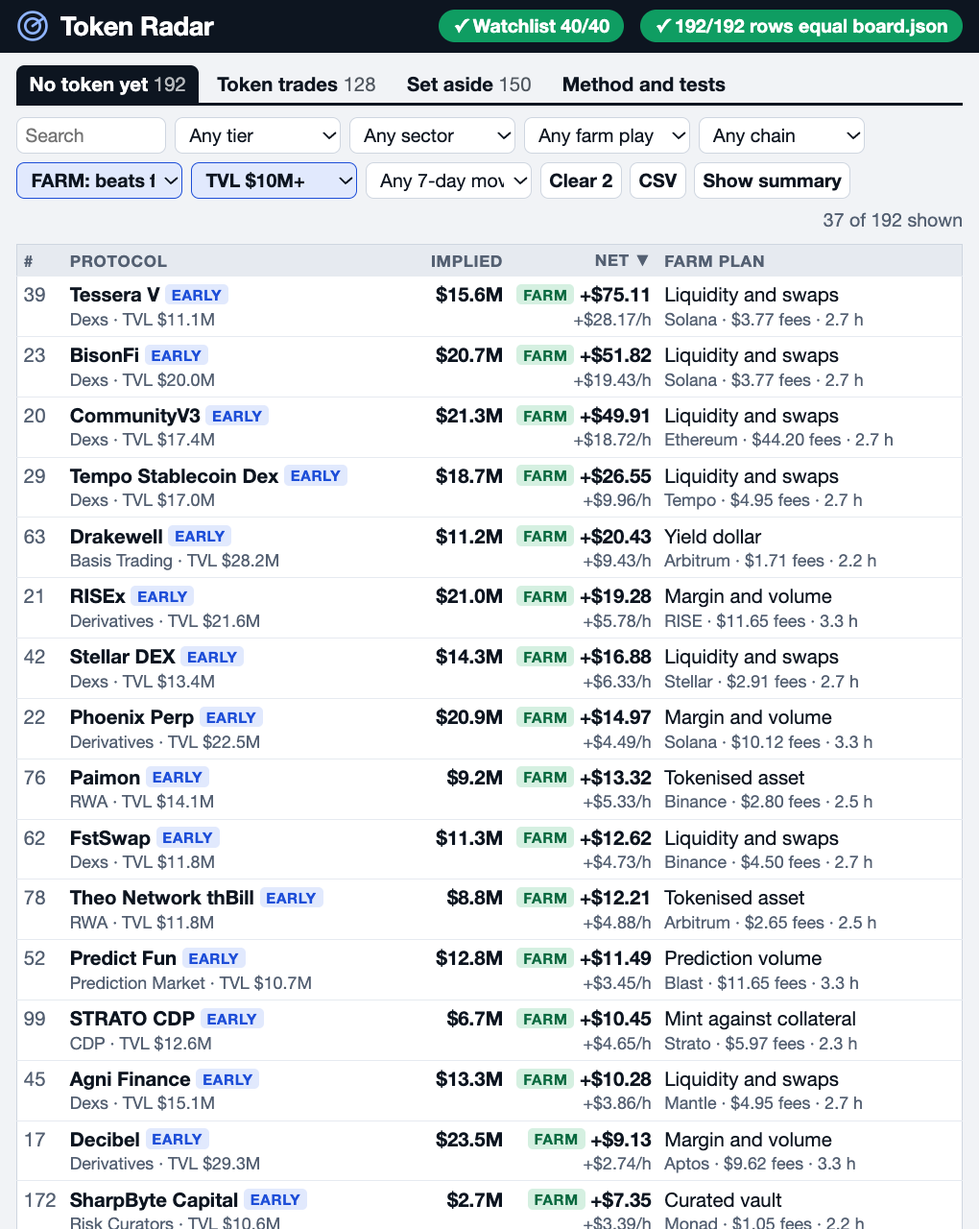
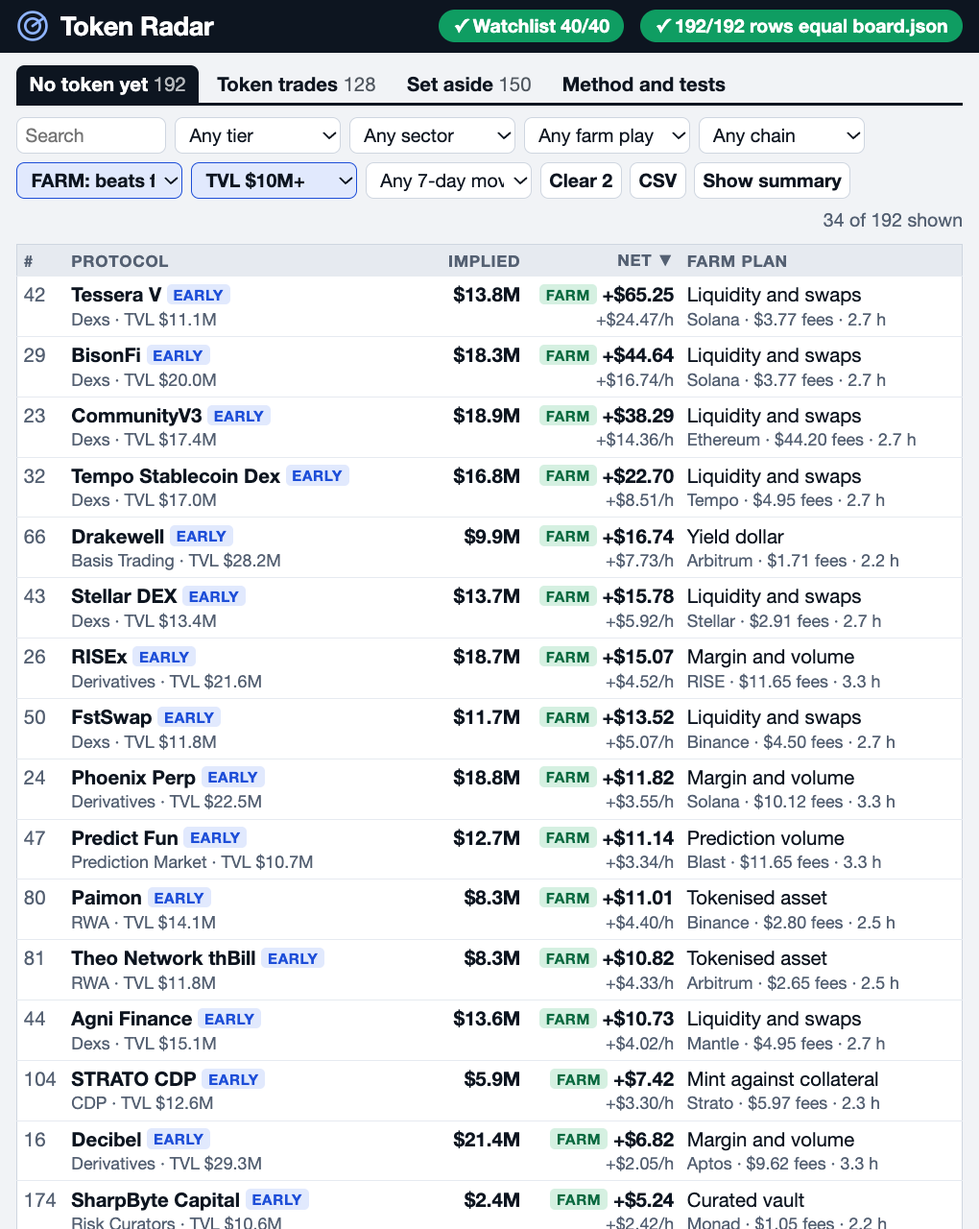
Age sets the range, not much of the price; plan steps carry their own figures
- age: a quarter of the fitted slope, held within x0.90 to x1.15, so the blind test is no
  worse with it (x2.92, 52% within 3x); tokens under 18 months on record miss x6.83 against
  x2.81 for older ones, so each row's range now depends on its time on record
- farm steps: the gas to fund is the plan's own gas doubled, and the claim step states the
  ticket's slice at the implied value
- the brief gives rank 1 in full: its figures, its value as a product of factors, its range
  and its eight steps as board.json carries them
- board shows two chains; stricter wording on which names the code holds; ten plays, not nine
- screenshots retaken

Changed region(s): [[0.4255, 0.1875, 0.9118, 1.0], [0.0304, 0.1875, 0.3343, 1.0]]

diff --git a/dashboard/2-app.js b/dashboard/2-app.js
@@ -111,7 +111,8 @@
       '<div class=\'how\'><h2>How a launch is priced ' + fn('impliedValue') + '</h2><code>10^' + fit.a.toFixed(2) + ' × TVL^' + fit.b.toFixed(3) + ' × sector × momentum × age × kinship</code>' +
       '<table><tr><th>Blind test: each traded token left out, then priced</th><th>miss</th><th>within 3×</th></tr>' +
       tests.ladder.map(function (l, i) { return '<tr' + (i === 3 ? ' class=\'on\'' : '') + '><td>' + l.name + '</td><td>' + times(l.miss) + '</td><td>' + Math.round(l.within3 * 100) + '%</td></tr>'; }).join('') +
-      '<tr><td>The ' + tests.cohort.newer + ' newest tokens, fit on the ' + tests.cohort.older + ' older</td><td>' + times(tests.cohort.model.miss) + '</td><td>flat ' + times(tests.cohort.flat.miss) + '</td></tr></table></div>' +
+      '<tr><td>The ' + tests.cohort.newer + ' newest tokens, fit on the ' + tests.cohort.older + ' older</td><td>' + times(tests.cohort.model.miss) + '</td><td>flat ' + times(tests.cohort.flat.miss) + '</td></tr>' +
+      '<tr><td>Under ' + Math.round(R.CONFIG.youngDays / 30) + ' months on record: a wider range</td><td>' + times(tests.spread.young.miss) + '</td><td>older ' + times(tests.spread.seasoned.miss) + '</td></tr></table></div>' +
       '<div class=\'chart\'>' + curveChart(250, 150) + '</div></section>';
   }
   function renderTabs() {
@@ -143,7 +144,7 @@
     }).join('') + '</tr></thead><tbody>' + list.map(function (r) {
       var p = r.now;
       return '<tr data-slug=\'' + r.slug + '\'><td class=\'n\'>' + r.rank + '</td>' +
-        '<td><b>' + esc(r.name) + '</b> ' + tag('tier', r.tier) + '<small>' + esc(r.category) + wide(' · ' + esc(r.chains[0] || '') + (r.chains.length > 1 ? ' +' + (r.chains.length - 1) : '')) + narrow(' · TVL ' + usd(r.tvl)) + '</small></td>' +
+        '<td><b>' + esc(r.name) + '</b> ' + tag('tier', r.tier) + '<small>' + esc(r.category) + wide(' · ' + esc(r.chains.slice(0, 2).join(', ')) + (r.chains.length > 2 ? ' +' + (r.chains.length - 2) : '')) + narrow(' · TVL ' + usd(r.tvl)) + '</small></td>' +
         '<td class=\'r wide\'>' + usd(r.tvl) + '</td><td class=\'r wide\'>' + (r.change7d == null ? 'n/a' : pct(r.change7d)) + '<small class=\'' + (r.excess >= 0 ? 'up' : 'down') + '\'>' + pct(r.excess * 100) + ' vs market</small></td>' +
         '<td class=\'r wide\'>' + span(r.age) + '</td>' +
         '<td class=\'r\'><b>' + usd(r.value) + '</b><span class=\'band wide\'><i style=\'left:' + bar(r.low) + '%;width:' + (bar(r.high) - bar(r.low)) + '%\'></i><u style=\'left:' + bar(r.value) + '%\'></u></span></td>' +
@@ -158,22 +159,23 @@
   function renderDetailView(r) {
     var p = r.now;
     return '<article class=\'detail\'><p class=\'crumbs\'><button data-set=\'p=\'>← Board</button>' +
-      '<span>Rank ' + r.rank + ' of ' + rows.length + ' · ' + esc(r.category) + ' · ' + esc(r.chains.slice(0, 3).join(', ')) + (r.chains.length > 3 ? ' +' + (r.chains.length - 3) : '') + ' · ← → for the next rank</span></p>' +
+      '<span>Rank ' + r.rank + ' of ' + rows.length + ' · ' + esc(r.category) + ' · ' + esc(r.chains.slice(0, 3).join(', ')) + (r.chains.length > 3 ? ' +' + (r.chains.length - 3) : '') + '</span></p>' +
       '<header><h1>' + esc(r.name) + ' ' + tag('tier', r.tier) + '<small>TVL ' + usd(r.tvl) + ' · ' + (r.age == null ? 'no listing date' : r.age + ' days on record') + ' · DefiLlama records no token as of ' + radar.asOf + '</small></h1>' +
-      '<div class=\'worth\'><b>' + usd(r.value) + '</b><small>implied value · likely ' + usd(r.low) + ' to ' + usd(r.high) + '</small></div></header>' +
+      '<div class=\'worth\'><b>' + usd(r.value) + '</b><small>implied value · ' + usd(r.low) + ' to ' + usd(r.high) + ', ' + times(r.spread) + ' either way</small></div></header>' +
       '<div class=\'cols\'><section>' + renderValueBuild(r) + wide(curveChart(430, 190, r)) + '</section>' +
-      '<section>' + renderFarmPlanTable(r, p) + renderNetGrid(r) + '</section></div></article>';
+      '<section>' + renderFarmPlanTable(r, p) + '</section></div></article>';
   }
   /** impliedValue's factors as a running product, each with the snapshot figure behind it. */
   function renderValueBuild(r) {
-    var comps = radar.comps.filter(function (c) { return c.sector === r.sector; }).length, running = r.curve;
+    var comps = radar.comps.filter(function (c) { return c.sector === r.sector; }).length, running = r.curve, months = Math.round(R.CONFIG.youngDays / 30);
     var why = [r.sector + ': ' + comps + ' traded comps, effect shrunk toward the curve',
       (r.change7d == null ? 'no 7-day figure' : '7d ' + pct(r.change7d)) + ' against the market\'s ' + pct(radar.marketWeek),
-      r.age == null ? 'no listing date on record' : r.age + ' days with no token; younger tokens trade richer',
+      r.age == null ? 'no listing date on record' : r.age + ' days with no token: a slight tilt, newer tokens trade richer',
       r.tier === 'shared' ? 'filed under a parent: one launch shared with siblings' : r.kin ? 'its name stem already carries ' + r.kin + ': kept only because the watchlist names it' : 'its own launch'];
     return '<h2>How ' + usd(r.value) + ' is built ' + fn('impliedValue') + '</h2><table class=\'build\'><tr><td>Size curve</td><td></td><td>' + usd(r.curve) + '</td><td>10^' + fit.a.toFixed(2) + ' × ' + usd(r.tvl) + '^' + fit.b.toFixed(3) + ', fitted on ' + radar.comps.length + ' traded tokens</td></tr>' +
       r.factors.map(function (f, i) { running *= f[1]; return '<tr><td>' + f[0] + '</td><td>' + times(f[1]) + '</td><td>' + usd(running) + '</td><td>' + esc(why[i]) + '</td></tr>'; }).join('') +
-      '<tr class=\'on\'><td>Implied value</td><td></td><td>' + usd(r.value) + '</td><td>recomputed here; board.json has $' + r.value.toLocaleString('en-US') + ' at rank ' + r.rank + '</td></tr></table>';
+      '<tr class=\'on\'><td>Implied value</td><td></td><td>' + usd(r.value) + '</td><td>recomputed here; board.json has $' + r.value.toLocaleString('en-US') + ' at rank ' + r.rank + '</td></tr>' +
+      '<tr><td>Range</td><td>' + times(r.spread) + '</td><td>' + usd(r.low) + ' – ' + usd(r.high) + '</td><td>half the blind misses of tokens ' + (r.young ? 'under ' : 'over ') + months + ' months on record fall inside: the younger, the less sure</td></tr></table>';
   }
   /** farmPlan's eight steps with each one's dollar cost and minutes, then slice - fees - T-bill = net. */
   function renderFarmPlanTable(r, p) {
@@ -184,13 +186,6 @@
       '<p class=\'sum\'>Slice <b>' + usd(p.slice) + '</b> − fees <b>' + usd(p.fees) + '</b> − T-bill forgone <b>' + usd(p.forgone) + '</b> = net <b class=\'' + (p.net >= 0 ? 'up' : 'down') + '\'>' + signed(p.net) + '</b>, ' + signed(p.perHour) + ' an hour. ' +
       (p.breakEven ? 'Pays from a ' + usd(p.breakEven) + ' ticket.' : 'No ticket size pays at this value.') + '</p>' +
       '<p class=\'note\'>Slice: ' + Math.round(p.share * 100) + '% of ' + usd(r.value) + ' shared by dollar-days. Your ' + p.hold + ' days stand behind ' + Math.round(p.ahead) + ' day-equivalents already earned (half its days with no token, as if TVL grew in a straight line). A launch that only counts balances on the day would pay ' + usd(p.snapshotSlice) + '.</p>';
-  }
-  /** Net at three tickets and three airdrop shares: how far the verdict depends on the assumptions. */
-  function renderNetGrid(r) {
-    var shares = [5, 10, 20];
-    return '<table class=\'mini grid\'><tr><th>Net of all costs at</th>' + shares.map(function (s) { return '<th>' + s + '% airdrop</th>'; }).join('') + '</tr>' + [1000, 5000, 25000].map(function (cap) {
-      return '<tr><td>' + usd(cap) + ' ticket</td>' + shares.map(function (s) { var p = R.farmPlan(r, { capital: cap, share: s / 100 }); return '<td class=\'' + (p.net >= 0 ? 'up' : 'down') + '\'>' + signed(p.net) + '</td>'; }).join('') + '</tr>';
-    }).join('') + '</table>';
   }
 
   // ---------------------------------------------------------------- the other tabs
@@ -206,22 +201,22 @@
   }
   /** Protocols with no token on record that the board leaves out, each with the rule that set it aside. */
   function renderSetAside() {
-    return '<p class=\'lead\'>' + radar.counts.noToken + ' protocols record no token. ' + rows.length + ' are ranked; these ' + radar.aside.length + ' are set aside by rule, never by name: the house\'s watchlist rule (bridge, staking, exchange, versioned or wrapped listings) or a name stem that already carries a token.</p>' +
+    return '<p class=\'lead\'>' + radar.counts.noToken + ' protocols record no token. ' + rows.length + ' are ranked; these ' + radar.aside.length + ' are set aside by rule: the house\'s watchlist rule (bridge, staking, exchange, versioned or wrapped listings) or a name stem that already carries a token.</p>' +
       '<table class=\'board\'><thead><tr><th>Protocol</th><th>Category</th><th class=\'r\'>TVL</th><th>Set aside because</th></tr></thead><tbody>' +
       radar.aside.map(function (a) { return '<tr><td><b>' + esc(a.name) + '</b></td><td>' + esc(a.category || '') + '</td><td class=\'r\'>' + usd(a.tvl) + '</td><td>' + esc(a.reason) + '</td></tr>'; }).join('') + '</tbody></table>';
   }
   /** The method in words, the evidence for each input, and every traded token's blind price against its cap. */
   function renderMethodAndTests() {
     var C = R.CONFIG, sectors = Object.keys(fit.sector).map(function (s) { return s + ' ' + times(Math.pow(10, fit.sector[s])); }).join(', ');
-    return '<div class=\'method\'><section><h2>What is priced</h2><p>A protocol is on the board when DefiLlama records no market cap, ticker or CoinGecko id for it and no rule sets it aside. Its implied value is what its token would be worth if priced like the tokens that already trade.</p>' +
+    return '<div class=\'method\'><section><h2>What is priced</h2><p>A protocol is on the board when DefiLlama records no market cap, ticker or CoinGecko id for it and no rule sets it aside. Its value is what its token would be worth if priced like those that trade.</p>' +
       '<h2>The evidence for each input</h2><table class=\'mini text\'><tr><th>Input</th><th>What the ' + radar.comps.length + ' comparables say</th><th>How it is used</th></tr>' +
       '<tr><td>TVL</td><td>cap grows as TVL^' + fit.b.toFixed(3) + ': a dollar of TVL is worth less in a big protocol</td><td>the size curve, a Theil-Sen line no outlier can tilt</td></tr>' +
       '<tr><td>Sector</td><td>' + sectors + '</td><td>each effect shrunk by ' + C.pseudoComps + ' pseudo-comps</td></tr>' +
       '<tr><td>7-day growth</td><td>the median protocol moved ' + pct(radar.marketWeek) + ' that week</td><td>TVL carried forward by its growth over the market, capped at ±' + C.growthCap * 100 + '%</td></tr>' +
-      '<tr><td>Time with no token</td><td>younger tokens trade richer: ' + fit.ageSlope.toFixed(2) + ' per tenfold of days, after halving</td><td>held within ' + times(C.ageClamp[0]) + ' to ' + times(C.ageClamp[1]) + '; and in the farm slice</td></tr>' +
+      '<tr><td>Time with no token</td><td>newer tokens price richer in every cohort split; under ' + Math.round(C.youngDays / 30) + ' months on record the blind test misses ' + times(tests.spread.young.miss) + ', older ' + times(tests.spread.seasoned.miss) + '</td><td>a slight tilt on price (' + times(C.ageClamp[0]) + ' to ' + times(C.ageClamp[1]) + '), the width of the range, and the farm slice</td></tr>' +
       '<tr><td>Honest limit</td><td>the blind test is no better with growth and age (' + times(tests.ladder[2].miss) + ' to ' + times(tests.ladder[3].miss) + ')</td><td>both are kept small; size and sector carry the value</td></tr></table>' +
       '<h2>Farm maths</h2><p>slice = value × airdrop share × ticket / TVL × hold / (ahead + hold). ahead is half the days it has run with no token, at most ' + C.pointsWindow + ': TVL is taken to have grown in a straight line. net = slice − fees − the ' + C.tbill * 100 + '% T-bill yield given up. FARM beats both; THIN beats fees only, so it needs the position\'s own yield; SKIP beats neither.</p>' +
-      '<h2>Limits</h2><p>One day of DefiLlama data. Nothing here says whether or when a token launches.</p></section>' +
+      '</section>' +
       '<section><h2>Blind test: every traded token priced as if it had none</h2>' + scatterChart({ w: 430, h: 260, x: [5, 9.5], y: [4.5, 10], dots: radar.comps.map(function (c) { return [c.blind, c.mcap, 'comp', 2.5]; }),
         lines: [[1e5, 1e5, 3e9, 3e9, 'fit'], [1e5, 3e5, 1e9, 3e9, 'edge'], [3e5, 1e5, 3e9, 1e9, 'edge']], label: 'Across: the blind price. Up: the real market cap. Between the dashed lines: within 3×.' }) + '</section></div>';
   }
@@ -256,11 +251,7 @@
     state[k] = e.target.value; writeStateToHash();
     if (k === 'q') renderBoardTable(); else render();
   });
-  document.addEventListener('keydown', function (e) {
-    var row = state.p && rows.filter(function (r) { return r.slug === state.p; })[0], to = row && rows[row.rank - 1 + (e.key === 'ArrowRight' ? 1 : e.key === 'ArrowLeft' ? -1 : 0)];
-    if (e.key === 'Escape' && row) setState('p', '');
-    else if (to && to !== row) setState('p', to.slug);
-  });
+  document.addEventListener('keydown', function (e) { if (e.key === 'Escape' && state.p) setState('p', ''); });
   window.addEventListener('hashchange', function () { readStateFromHash(); render(); });
   readStateFromHash(); renderHeader(); render();
 })();

diff --git a/dashboard/1-model.js b/dashboard/1-model.js
@@ -1,7 +1,8 @@
 /* Token Radar, the model. ONE file prices everything: main.ts requires it to write board.json, and
  * index.html loads it to recompute every figure on the page from the sealed snapshot (../data.js is the
  * snapshot's protocols verbatim plus board.json's ranks and values, so the page checks itself).
- * No protocol is named anywhere in it: rules read names only for words and stems. */
+ * No protocol is priced by name: the only names in it are the eight exchanges of the house's own
+ * watchlist rule, which sets their products aside. */
 (function (root) {
   'use strict';
 
@@ -10,8 +11,9 @@
     pseudoComps: 4,       // zero-effect comps that pull each sector's effect toward the curve
     receiptBand: 0.015,   // cap within 1.5% of TVL: the 'token' is the deposit receipt, not a launch
     growthCap: 0.4,       // excess 7-day growth carried forward, capped at +-40%
-    ageShare: 0.5,        // only half the fitted age slope is applied: the blind test is no better with it
-    ageClamp: [0.8, 1.3],
+    ageShare: 0.25,       // a quarter of the fitted age slope: newer tokens price richer in every cohort
+    ageClamp: [0.9, 1.15], // split, but the blind test gains nothing from it, so the tilt is kept slight
+    youngDays: 540,       // under 18 months on record the blind test misses far wider: the range, not the price
     kinToken: 0.25,       // a watchlist row whose name stem already carries a token on record
     capital: 1000, airdropShare: 0.10, tbill: 0.04, pointsWindow: 365
   };
@@ -88,11 +90,11 @@
       var abs = errors.map(Math.abs);
       return { miss: Math.pow(10, median(abs)), within3: abs.filter(function (e) { return e <= log10(3); }).length / abs.length, n: abs.length };
     };
-    var names = ['One flat cap/TVL multiple', 'Size curve', 'Size curve + sector', 'Full model'], residuals = [];
+    var names = ['One flat cap/TVL multiple', 'Size curve', 'Size curve + sector', 'Full model'];
     var ladder = names.map(function (name, level) {
       var errors = comps.map(function (c, i) {
         var e = c.y - predictLog(fitCurve(comps.filter(function (_, j) { return j !== i; }), level), c);
-        if (level === 3) { c.blind = Math.pow(10, c.y - e); residuals.push(e); }
+        if (level === 3) c.blind = Math.pow(10, c.y - e);
         return e;
       });
       var r = miss(errors); r.name = name; return r;
@@ -100,14 +102,17 @@
     // cohort split: fit on protocols tracked 900+ days (or undated), price the newer ones
     var older = comps.filter(function (c) { return !c.age || c.age >= 900; }), newer = comps.filter(function (c) { return c.age && c.age < 900; });
     var cohort = [3, 0].map(function (level) { var f = fitCurve(older, level); return miss(newer.map(function (c) { return c.y - predictLog(f, c); })); });
+    // how sure a price is depends on time on record: the blind misses of young tokens against the rest.
+    // Half of each group's misses fall within its figure, and that sets every board row's range.
+    var young = comps.filter(function (c) { return c.age != null && c.age < CONFIG.youngDays; });
+    var blindMiss = function (list) { return miss(list.map(function (c) { return c.y - log10(c.blind); })); };
     return {
       ladder: ladder, cohort: { model: cohort[0], flat: cohort[1], older: older.length, newer: newer.length },
-      // the middle half of the blind misses: every board row's range is its value times these two
-      band: [0.25, 0.75].map(function (q) { return Math.pow(10, quantile(residuals, q)); })
+      spread: { young: blindMiss(young), seasoned: blindMiss(comps.filter(function (c) { return young.indexOf(c) < 0; })) }
     };
   }
 
-  /* ---- 2. FARM PLANS. Nine plays by mechanism. tx: transactions to [enter, qualify, each week, exit].
+  /* ---- 2. FARM PLANS. Ten plays by mechanism. tx: transactions to [enter, qualify, each week, exit].
    * pct: fees as a share of the ticket [once, each week]. carry: yearly interest as a share of the ticket.
    * min: minutes to [enter, qualify, each week]. {C} is the ticket, {C/4} a quarter of it. */
   var PLAYS = {
@@ -181,20 +186,21 @@
     var text = function (t) {
       return t.replace(/\{C(\/\d+)?\}/g, function (_, d) { return usd(d ? C / +d.slice(1) : C); }).replace(/\{N\}/g, N).replace(/\{chain\}/g, chain);
     };
+    var ahead = Math.min(row.age == null ? CONFIG.pointsWindow : row.age, CONFIG.pointsWindow) / 2;
+    var snapshotSlice = row.value * share * C / (row.tvl + C), slice = snapshotSlice * H / (ahead + H);
+    var gasBudget = Math.max(1, Math.ceil(2 * gas * (play.tx[0] + play.tx[1] + weeks * play.tx[2] + play.tx[3] + 2)));   // twice the plan's gas
     var steps = [
-      ['Fund', 'Withdraw ' + usd(C) + ' (USDC, or the asset it takes) and a few dollars of gas from an exchange to a fresh wallet on ' + chain + ', used for this farm only.', fund, 10],
+      ['Fund', 'Withdraw ' + usd(C) + ' (USDC, or the asset it takes) and ' + usd(gasBudget) + ' for gas from an exchange to a fresh wallet on ' + chain + ', used for this farm only.', fund, 10],
       ['Verify', 'Open ' + N + ' from defillama.com/protocol/' + row.slug + ', not a search ad; check contracts, audits, that it still lists no token, and any points page.', 0, 15],
       ['Enter', text(play.enter), play.tx[0] * gas + play.pct[0] * C, play.min[0]],
       ['Qualify', text(play.qualify), play.tx[1] * gas + play.carry * C * H / 365, play.min[1]],
       ['Upkeep', 'Each week for ' + weeks + ' weeks, ' + play.watch + '; log it.', weeks * (play.tx[2] * gas + play.pct[1] * C), weeks * play.min[2]],
       ['Stop rule', 'Leave early if ' + play.stop + ', TVL drops under ' + usd(row.tvl * 0.7) + ' (-30%), or a token is announced with nothing for depositors.', 0, 5],
-      ['Claim', 'If a token launches, claim only from ' + N + '\'s own site, never pay to claim, then revoke approvals.', gas, 10],
+      ['Claim', 'If a token launches, claim only from ' + N + '\'s own site, never pay to claim, then revoke approvals. At the implied ' + usd(row.value) + ' this ticket\'s slice is about ' + usd(slice) + '.', gas, 10],
       ['Exit', 'After ' + H + ' days or at the claim, unwind the position and send the funds back to the exchange.', (play.tx[3] + 1) * gas, 10]
     ];
     if (play.qualifyFirst) steps.splice(2, 2, steps[3], steps[2]);
     var fees = steps.reduce(function (s, x) { return s + x[2]; }, 0), minutes = steps.reduce(function (s, x) { return s + x[3]; }, 0);
-    var ahead = Math.min(row.age == null ? CONFIG.pointsWindow : row.age, CONFIG.pointsWindow) / 2;
-    var snapshotSlice = row.value * share * C / (row.tvl + C), slice = snapshotSlice * H / (ahead + H);
     var forgone = C * CONFIG.tbill * H / 365, net = slice - fees - forgone;
     // fees split into a fixed part (gas, funding) and a part that scales with the ticket, for the break-even
     var scaling = C * (play.pct[0] + weeks * play.pct[1] + play.carry * H / 365), perDollar = (slice - scaling - forgone) / C;
@@ -228,11 +234,12 @@
       if (reason) { aside.push({ slug: p.slug, name: p.name, category: p.category, tvl: p.tvl_usd, reason: reason }); return; }
       // above the floor and clear of every rule, yet off the watchlist: DefiLlama files it under a parent
       ctx.kin = kinSymbol ? 'token' : !listed && p.tvl_usd >= snapshot.floor_usd ? 'parent' : null;
-      var v = impliedValue(p, fit, ctx);
+      var v = impliedValue(p, fit, ctx), young = v.age != null && v.age < CONFIG.youngDays && tests.spread.young.n > 0;
+      var spread = (young ? tests.spread.young : tests.spread.seasoned).miss;
       rows.push({
         slug: p.slug, name: p.name, category: p.category || 'Uncategorised', sector: v.sector, chains: p.chains, tvl: p.tvl_usd,
         change7d: p.change_7d, excess: v.excess, age: v.age, tier: listed ? 'watchlist' : ctx.kin === 'parent' ? 'shared' : 'early',
-        kin: kinSymbol || null, value: v.value, curve: v.curve, factors: v.factors, low: v.value * tests.band[0], high: v.value * tests.band[1]
+        kin: kinSymbol || null, value: v.value, curve: v.curve, factors: v.factors, young: young, spread: spread, low: v.value / spread, high: v.value * spread
       });
     });
     rows.sort(function (a, b) { return b.value - a.value || (a.slug < b.slug ? -1 : 1); });

diff --git a/dashboard/3-style.css b/dashboard/3-style.css
@@ -1,4 +1,4 @@
-/* Token Radar: ink on paper, one cobalt accent, colour kept for verdicts and tiers. One component a line. */
+/* Token Radar: ink on paper, one cobalt accent. One component a line. */
 :root {
   --paper: #f1f3f6; --card: #fff; --ink: #0d1520; --dim: #546072; --line: #cfd6e0; --soft: #e6eaf0;
   --brand: #1d4ed8; --brand-soft: #e1e9fd; --farm: #08693f; --farm-bg: #d5f0e1; --thin: #7d5200; --thin-bg: #fbecc2; --skip: #a12d25; --skip-bg: #fadfdb;
@@ -14,7 +14,7 @@ h2 { margin-bottom: 5px; font: 700 10.5px var(--sans); letter-spacing: 0.7px; te
 .plot { display: block; width: 100%; height: auto; } .plot text { font: 8.5px var(--sans); fill: var(--dim); } .plot .grid { stroke: var(--soft); } .plot .comp { fill: #8f9bad; } .plot .board { fill: var(--brand); stroke: #fff; stroke-width: 0.5; } .plot .fit { stroke: var(--ink); stroke-width: 1.4; } .plot .edge { stroke: var(--dim); stroke-dasharray: 3 3; } .cap { font-size: 10px; color: var(--dim); }
 .tabs { display: flex; align-items: flex-end; gap: 3px; border-bottom: 2px solid var(--ink); } .tabs button { padding: 5px 11px; border: 0; border-radius: 5px 5px 0 0; background: none; font: 600 12.5px var(--sans); cursor: pointer; } .tabs button b { font-weight: 400; opacity: 0.7; } .tabs button.on { background: var(--ink); color: #fff; } .what-if { margin-left: auto; padding-bottom: 4px; font-size: 11.5px; color: var(--dim); }
 .filters { display: flex; flex-wrap: wrap; align-items: center; gap: 5px; padding: 7px 0; } .filters input, select, .filters button, .crumbs button { padding: 3px 5px; border: 1px solid var(--line); border-radius: 5px; background: var(--card); font-size: 11.5px; } .filters input { width: 92px; } .filters select { width: 102px; } select.set { border-color: var(--brand); background: var(--brand-soft); font-weight: 700; } .filters button, .crumbs button { font-weight: 600; cursor: pointer; } #count { margin-left: auto; font-size: 11.5px; color: var(--dim); }
-.board { width: 100%; border-collapse: collapse; background: var(--card); border: 1px solid var(--line); } .board .r { text-align: right; } .board .n { color: var(--dim); } .board th { position: sticky; top: 0; padding: 5px 6px; background: var(--soft); font: 700 10px var(--sans); letter-spacing: 0.4px; text-transform: uppercase; color: var(--dim); text-align: left; white-space: nowrap; cursor: pointer; } .board td { padding: 3px 6px; border-top: 1px solid var(--soft); vertical-align: top; white-space: nowrap; } .board tbody tr[data-slug] { cursor: pointer; } .board tbody tr[data-slug]:hover { background: var(--brand-soft); }
+.board { width: 100%; border-collapse: collapse; background: var(--card); border: 1px solid var(--line); } .board .r { text-align: right; } .board .n { color: var(--dim); } .board th { position: sticky; top: 0; padding: 5px 6px; background: var(--soft); font: 700 10px var(--sans); letter-spacing: 0.4px; text-transform: uppercase; color: var(--dim); text-align: left; white-space: nowrap; cursor: pointer; } .board td { padding: 3px 6px; border-top: 1px solid var(--soft); vertical-align: top; white-space: nowrap; } .board small { max-width: 215px; overflow: hidden; text-overflow: ellipsis; } .board tbody tr[data-slug] { cursor: pointer; } .board tbody tr[data-slug]:hover { background: var(--brand-soft); }
 .tier, .verdict { padding: 1px 4px; border-radius: 3px; font: 700 9px var(--sans); font-style: normal; letter-spacing: 0.4px; text-transform: uppercase; vertical-align: 1px; } .tier.watchlist { background: var(--ink); color: #fff; } .tier.early { background: var(--brand-soft); color: var(--brand); } .tier.shared { background: var(--soft); color: var(--dim); } .verdict.FARM { background: var(--farm-bg); color: var(--farm); } .verdict.THIN { background: var(--thin-bg); color: var(--thin); } .verdict.SKIP { background: var(--skip-bg); color: var(--skip); }
 .band { display: inline-block; position: relative; width: 62px; height: 8px; margin-left: 6px; border-radius: 4px; background: var(--soft); } .band i { position: absolute; top: 2px; height: 4px; border-radius: 2px; background: #93abf2; } .band u { position: absolute; top: 0; width: 3px; height: 8px; margin-left: -1px; background: var(--brand); }
 .detail header { display: flex; justify-content: space-between; align-items: flex-start; gap: 12px; margin: 7px 0 2px; } .detail h1 { font: 700 21px/1.15 var(--sans); letter-spacing: -0.3px; } .detail h1 small { margin-top: 2px; letter-spacing: 0; } .crumbs { display: flex; align-items: center; gap: 5px; font-size: 11.5px; color: var(--dim); } .worth { text-align: right; white-space: nowrap; } .worth b { font: 700 24px/1 var(--sans); color: var(--brand); } .note { margin: 4px 0; font-size: 10.5px; color: var(--dim); } .cols { display: grid; grid-template-columns: 1fr 1.1fr; gap: 14px; margin-top: 4px; } .cols h2 { margin-top: 6px; color: var(--ink); }

diff --git a/main.ts b/main.ts
@@ -80,16 +80,14 @@ function brief(screenshots: string[]): string {
     `- Board: ${n} protocols that record no token, ranked by implied value. Watchlist ${tier('watchlist')}/${counts.watchlist} covered, plus ${tier('early')} below its floor and ${tier('shared')} beside it.`,
     `- Kept apart: ${radar.tokens.length} protocols whose token trades (${radar.comps.length} are the comparables), ${counts.onRecord} with a token on record, ${radar.aside.length} set aside by rule (wrapped, staked, bridged, exchange, versioned, or kin of a token on record).`,
     `- Value, impliedValue(): 10^${fit.a.toFixed(2)} x TVL^${fit.b.toFixed(3)} x sector x (1 + 7-day growth over the market's ${radar.marketWeek.toFixed(1)}%)^${fit.b.toFixed(3)} x age factor for days with no token x kinship. fitCurve() fits every constant on the snapshot's traded tokens; no protocol is named in the code.`,
-    `- Test, backtest(): each traded token priced blind by a fit that left it out: median miss ${x2(full.miss)}, ${pct(full.within3)} within 3x. One flat cap/TVL multiple: ${x2(flat.miss)}, ${pct(flat.within3)}.`,
+    `- Test, backtest(): each traded token priced blind by a fit that left it out: median miss ${x2(full.miss)}, ${pct(full.within3)} within 3x. One flat cap/TVL multiple: ${x2(flat.miss)}, ${pct(flat.within3)}. Tokens under ${Math.round(Radar.CONFIG.youngDays / 30)} months on record miss ${x2(tests.spread.young.miss)}, older ones ${x2(tests.spread.seasoned.miss)}, so young rows carry a wider range.`,
     `- Farm plan, farmPlan(): 8 steps a protocol, each with its dollar cost and minutes, then slice - fees - T-bill forgone = net. On $1,000: ${verdicts('FARM')} FARM, ${verdicts('THIN')} THIN, ${verdicts('SKIP')} SKIP.`,
     `- Page, 2-app.js: sort on every column, 8 filters, ticket and airdrop-share controls, a detail view per protocol, tabs for traded tokens, set-aside and method. It recomputes all ${n} rows; checkBoard() matches each against board.json.`,
+    '- Look, 3-style.css: ink on paper, one cobalt accent, colour kept for the FARM / THIN / SKIP verdicts and the tiers, tabular figures; hand-written, no framework.',
     `- Screenshots: ${screenshots.map((s) => s.replace(/\.[a-z]+$/, '')).join('; ')}.`,
     '',
-    `Top 4 of ${n}: rank. protocol | TVL | 7-day TVL | no token for | implied value | verdict, net on $1,000 | plan`,
-    ...radar.rows.slice(0, 4).map((r: any) =>
-      `${r.rank}. ${r.name} | ${usd(r.tvl)} | ${r.change7d == null ? 'n/a' : `${r.change7d.toFixed(1)}%`} | ${r.age == null ? 'undated' : `${r.age} d`} | ${usd(r.value)} | ${r.plan.verdict} ${signed(r.plan.net)} | ${r.plan.label} on ${r.plan.chain}, ${usd(r.plan.fees)} fees, ${(r.plan.minutes / 60).toFixed(1)} h`),
-    '',
-    `Rank 1 in full, ${top.name}. Value: size curve ${usd(top.curve)} ${top.factors.map((f: [string, number]) => `x ${f[0].toLowerCase()} ${f[1].toFixed(2)}`).join(' ')} = ${usd(top.value)}.`,
+    `Rank 1 in full, ${top.name}: TVL ${usd(top.tvl)}, 7-day TVL ${top.change7d == null ? 'n/a' : `${top.change7d.toFixed(1)}%`}, ${top.age == null ? 'no listing date' : `${top.age} days with no token`}.`,
+    `Value: size curve ${usd(top.curve)} ${top.factors.map((f: [string, number]) => `x ${f[0].toLowerCase()} ${f[1].toFixed(2)}`).join(' ')} = ${usd(top.value)}, range ${usd(top.low)} to ${usd(top.high)}.`,
     `Its farm plan as board.json carries it (${plan.label} on ${plan.chain}, ${usd(plan.capital)} for ${plan.hold} days):`,
     ...Radar.stepStrings(plan).map((s: string, i: number) => `${i + 1}. ${s}`),
     `Sums: slice ${usd(plan.slice)} - fees ${usd(plan.fees)} - T-bill forgone ${usd(plan.forgone)} = net ${signed(plan.net)} (${plan.verdict}) for ${(plan.minutes / 60).toFixed(1)} h of work${plan.breakEven ? `; pays from a ${usd(plan.breakEven)} ticket` : ''}.`,
